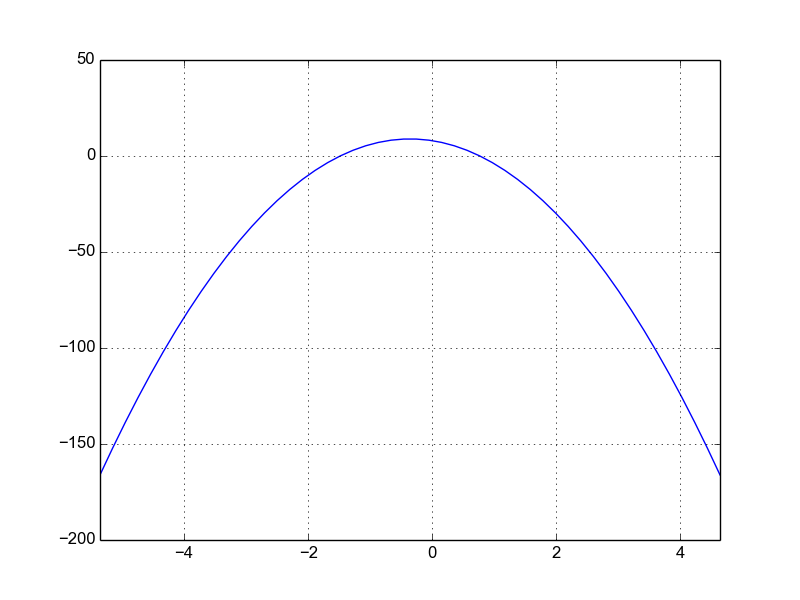
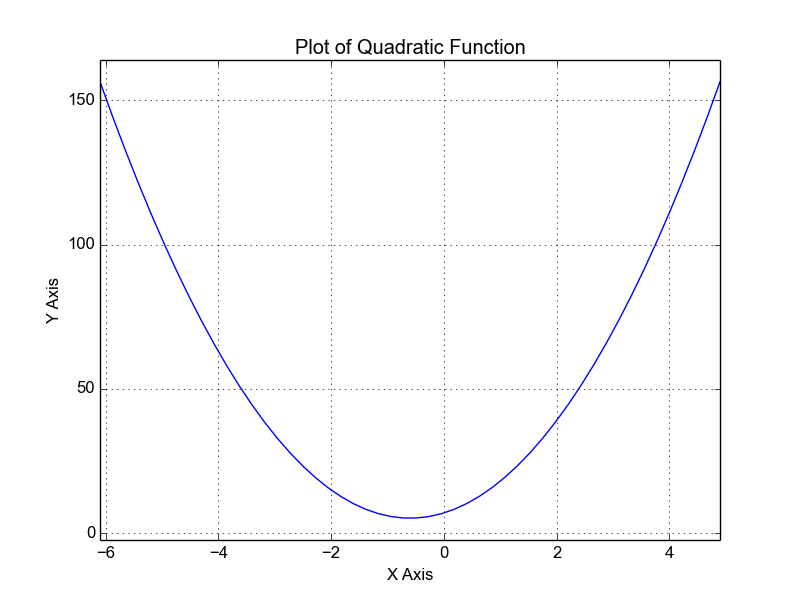
Start Guess the Function Program

diff --git a/GuessTheFunction.py b/GuessTheFunction.py
@@ -1,4 +1,7 @@
-#Graph Generator for Mathemtatics Question Generator Program
+#Function Guessing Program
+#Generates a Random Graph.
+#Students Must Guess the Associated Function
+#Graphs of Student Functions are Compared to the Original Graph
 
 #Required Modules
 from pylab import *
@@ -35,9 +38,35 @@ def Abs_Extrema(F, Range):
 			Abs_Maximum = Array[1]
 	return[Abs_Minimum, Abs_Maximum]	
 	
+def Plot_Function(x,y, Limits, FunctionAttributes):
+	clf()
+	fig = figure(1, figsize=(6,6))
+	ax = fig.add_subplot(111)
+	ax1.set_ylabel(FunctionAttributes['Y_Axis_Name'])
+	ax1.set_xlabel(FunctionAttributes['X_Axis_Name'])
+	ax1.set_title(FunctionAttributes['Name'])
 	
+#Generate a Random Function:
+a = int(random()*21)-10.0
+b = int(random()*21)-10.0
+c = int(random()*21)-10.0
+if a== 0:
+	a== 1
 
-
+X_LOW = -b/(2*a)-GraphRange/2.0-GraphPadding*(GraphRange)
+X_HIGH = -b/(2*a)+GraphRange/2.0+GraphPadding*(GraphRange)
+x = linspace(X_LOW,X_HIGH)
+y = a*x*x+b*x+c
+Poly1 = Polynomial(2, [c, b, a])
+Extrema = Abs_Extrema(Poly1, [X_LOW, X_HIGH])
+Y_LOW = Extrema[0]-GraphPadding*(Extrema[1]-Extrema[0])
+Y_HIGH = Extrema[1]+GraphPadding*(Extrema[1]-Extrema[0])
+Limits = [X_LOW, X_HIGH, Y_LOW, Y_HIGH]
+#Create a Plot of the Function:
+FunctionAttributes = {'Graph_Title'=>'Plot of Quadratic Function', 'X_Axis_Name'=>'X-Axis', 'Y_Axis_Name'=>'Y-Axis'}
+Plot_Function(x, y, Limits, FunctionAttributes)
+	
+'''
 # Make a square figure and axes
 for i in range (0,10): 
 	clf()
@@ -57,7 +86,7 @@ for i in range (0,10):
 	
 	X_LOW = -b/(2*a)-GraphRange/2.0-GraphPadding*(GraphRange)
 	X_HIGH = -b/(2*a)+GraphRange/2.0+GraphPadding*(GraphRange)
-	print X_LOW, X_HIGH
+	print X_LOW, X_HIGHy
 	x = linspace(X_LOW,X_HIGH)
 	y = a*x*x+b*x+c
 	Poly1 = Polynomial(2, [c, b, a])
@@ -72,4 +101,4 @@ for i in range (0,10):
 	grid()
 	legend()
 	savefig('Images/foo'+str(i)+'.png')
-
+'''
